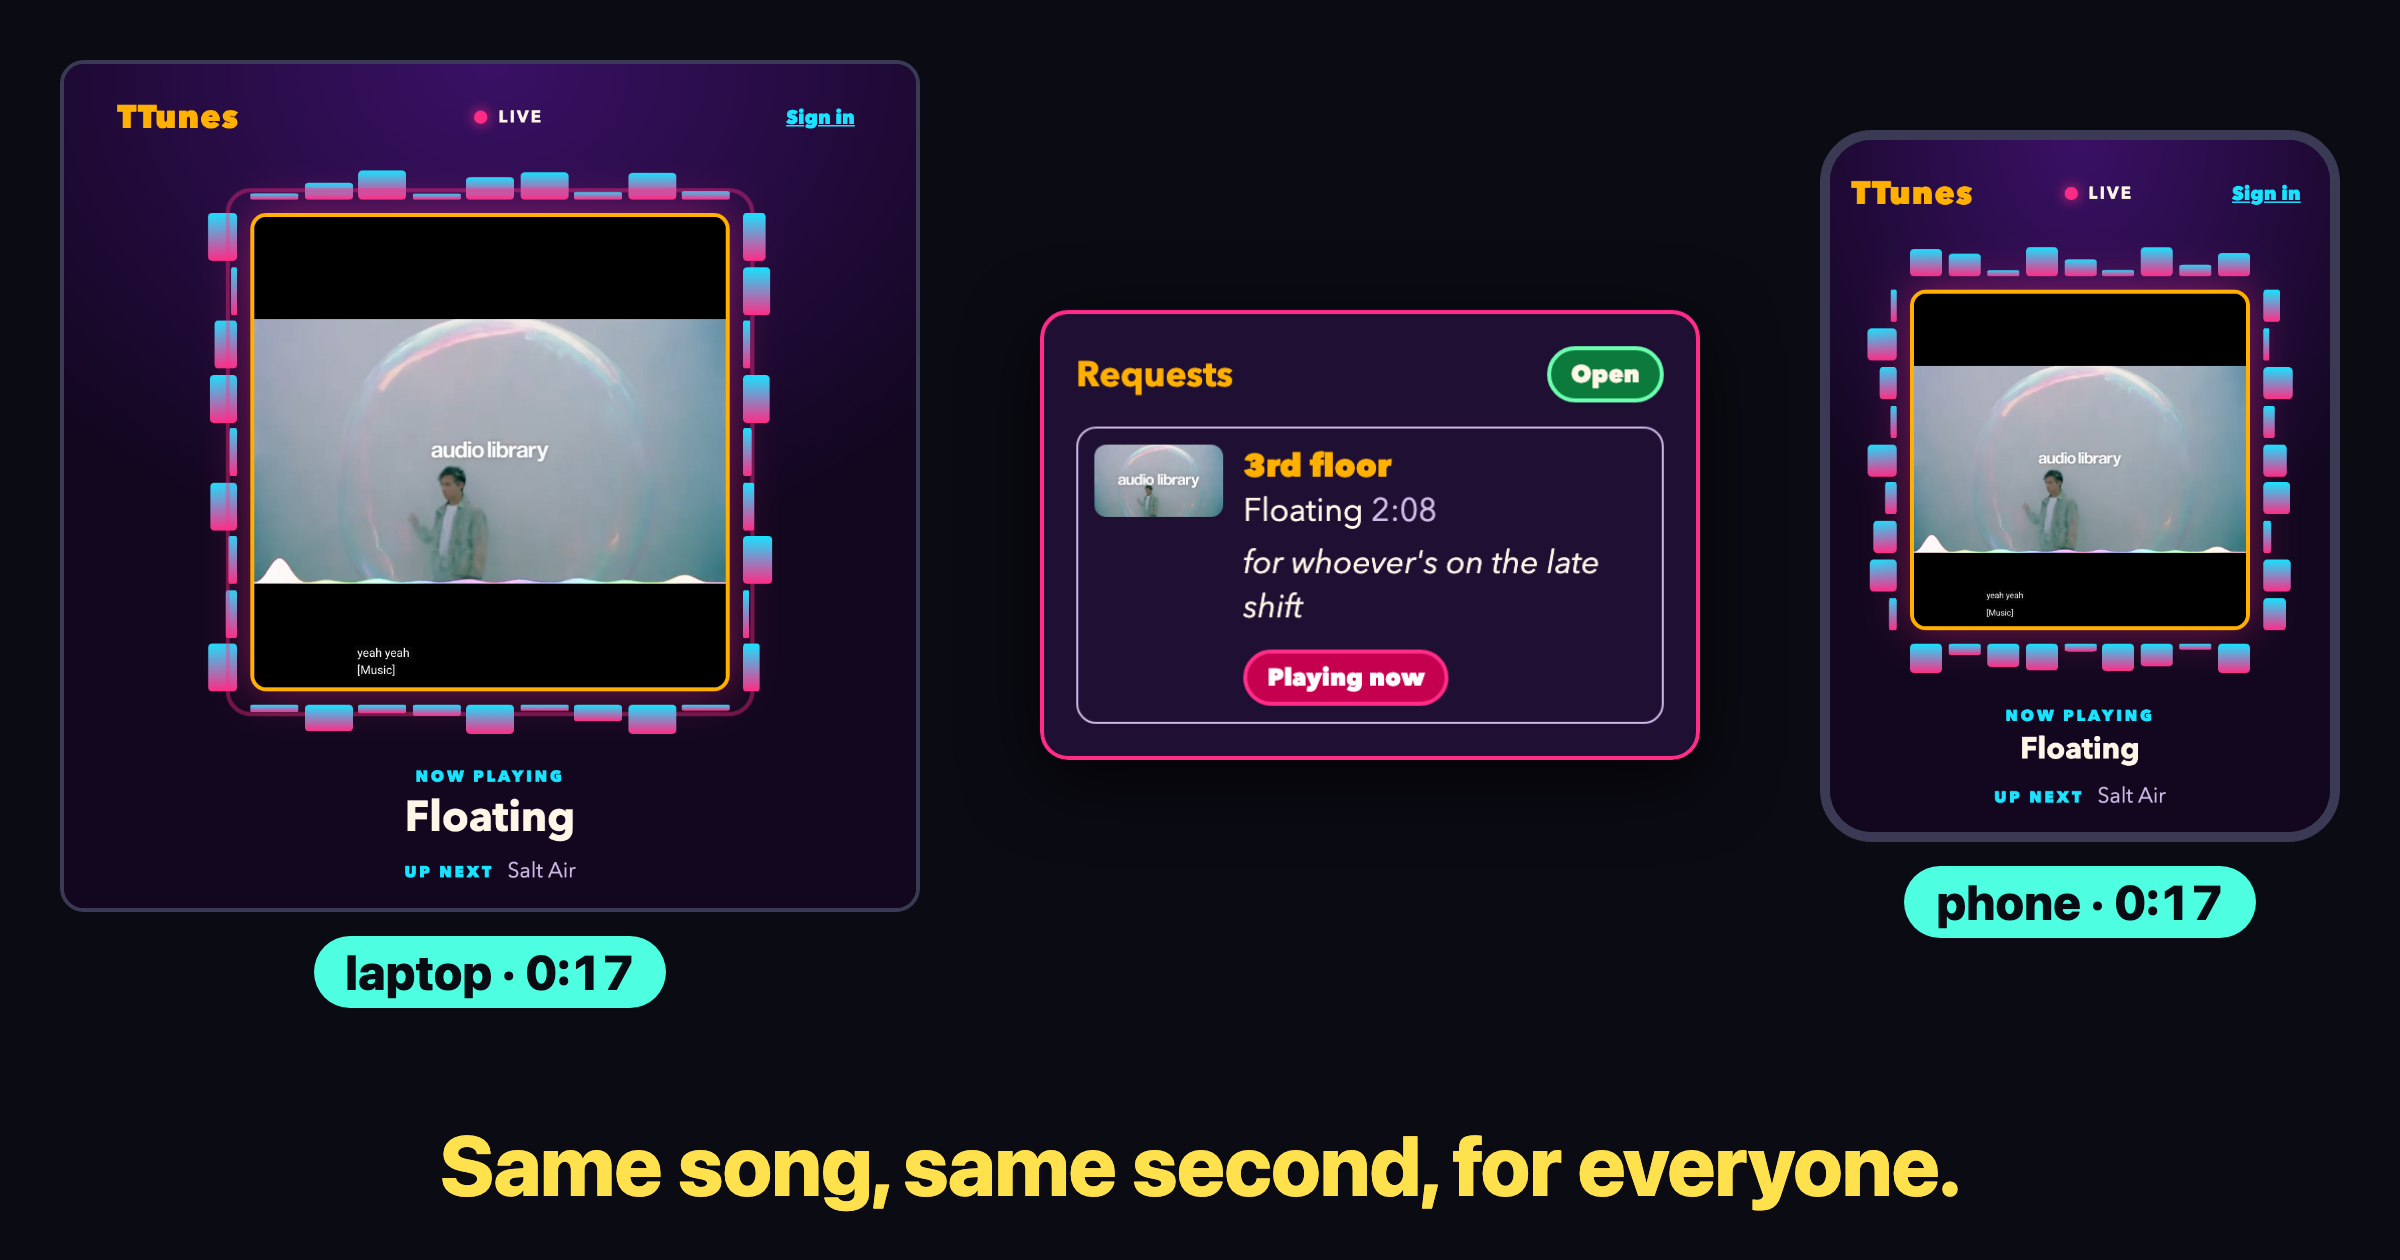
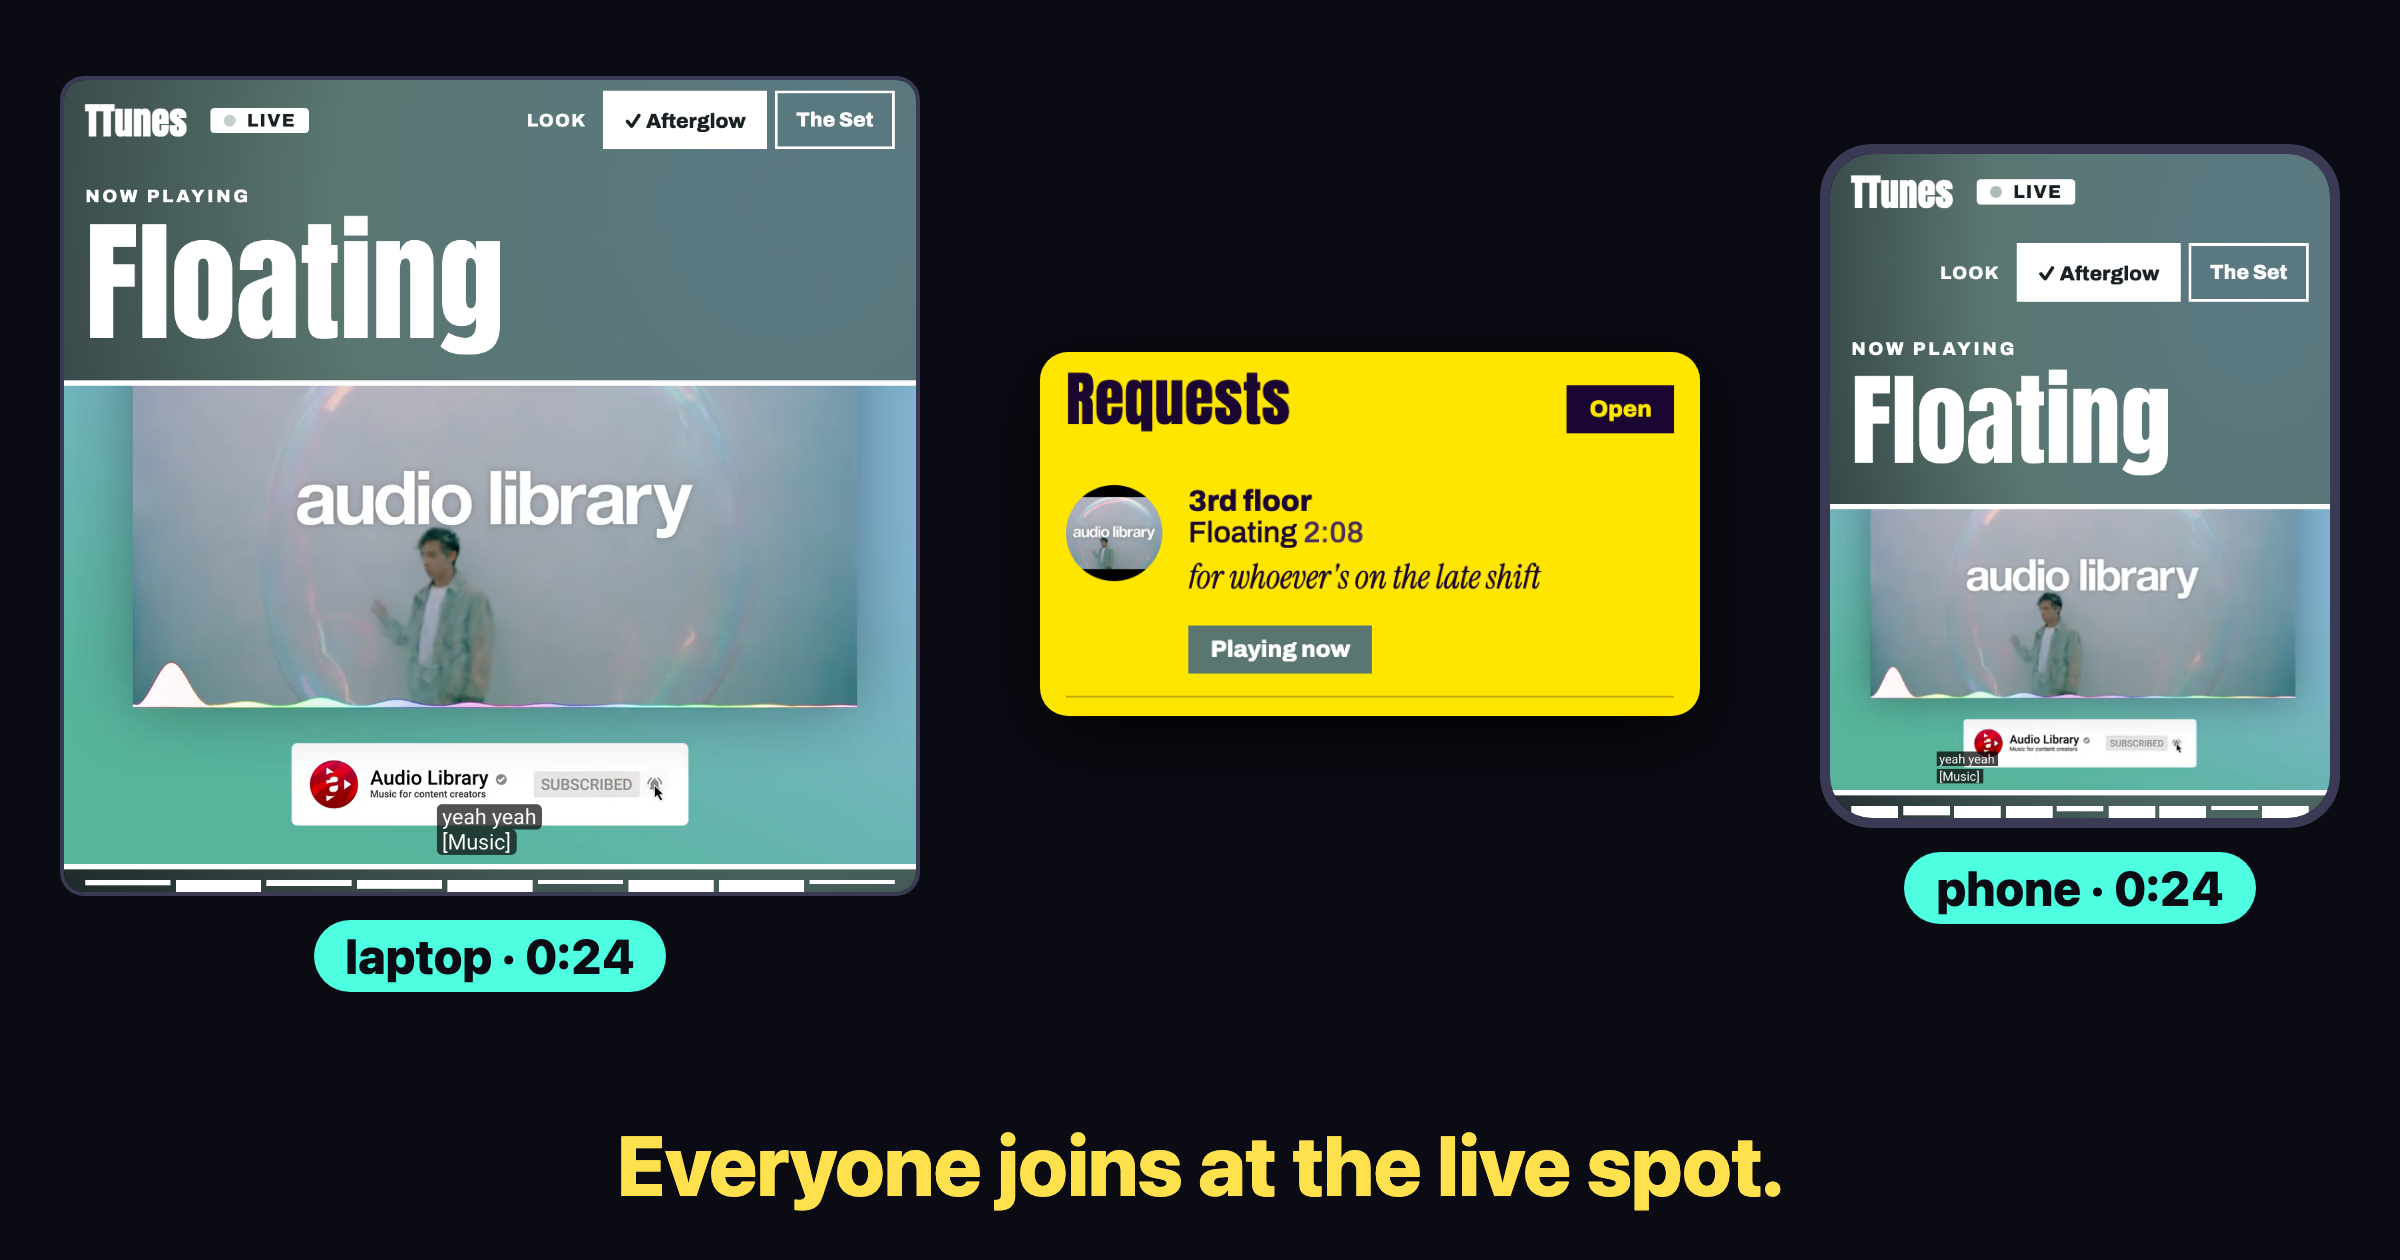
M4: new preview image (Afterglow, 16:9 player) and README for loose playback, two looks, tap-to-expand requests (#43)

diff --git a/README.md b/README.md
@@ -1,8 +1,8 @@
 # TTunes
 
-A personal radio station for one person's music library, on a public URL. It plays by itself, everyone who tunes in hears the same song at the same moment, and listeners can request songs with a short dedication. There is also a Mac app that runs the same idea locally, with uploads.
+A personal radio station for one person's music library, on a public URL. It plays by itself, everyone who tunes in joins the same song at the same live spot, and listeners can request songs with a short dedication. There is also a Mac app that runs the same idea locally, with uploads.
 
-![Two listener screens on the same song at the same second, with the request feed showing a dedication](docs/preview/ttunes-preview.png)
+![Two listener screens (laptop and phone) on the same song in the Afterglow look, with the request feed showing a dedication](docs/preview/ttunes-preview.png)
 
 **Live station:** _not deployed yet — URL goes here once it is live._
 
@@ -15,11 +15,12 @@ A personal radio station for one person's music library, on a public URL. It pla
 | Needs | Vercel + Neon Postgres | Node, yt-dlp, ffmpeg |
 
 ### Hosted station features
-- One shared schedule: every listener hears the same song at the same second, from any browser.
-- Visible YouTube player with a visualizer around it; "Now playing" and "Up next".
+- One shared schedule: press Play and you join the current song at the live spot, from any browser. After that, pause and seek are yours; the player rejoins live only when the next song starts (or after a reload and Play).
+- Two looks, switched in the header and remembered per browser: **Afterglow** (default; colours washed from the song's thumbnail) and **The Set**.
+- Visible 16:9 YouTube player with a visualizer around it; "Now playing" and "Up next" ("Anyone can request a song." sits under Up next).
 - Never stops: requests first, then the owner's queue, then a shuffle of the library.
-- Listener requests by link or typed search, with an optional dedication, in a public chat-style feed. With requests set to *open*, music under 10 minutes plays without the owner touching anything; other requests up to 15 minutes wait for approval; longer ones are refused. Each listener has one request lined up at a time and 5 an hour. The owner can switch requests to *approve first* or *off*, and deny or remove any one.
-- Owner (signed in with GitHub, one account only): add by link or search, skip, reorder, delete with undo, trash, activity log, library export, request mode open / approve first / off.
+- Listener requests (the yellow "Request a song" tab opens the drawer): paste a link and look it up, or search by name; tap a result and it expands in place with a preview and a Send request button. Optional dedication; requests show in a public chat-style feed. A one-time hint points first-time visitors to the tab. With requests set to *open*, music under 10 minutes plays without the owner touching anything; other requests up to 15 minutes wait for approval; longer ones are refused. Each listener has one request lined up at a time and 5 an hour. The owner can switch requests to *approve first* or *off*, and deny or remove any one.
+- Owner (signed in with GitHub, one account only, via "Owner sign-in (station owner only)" in the footer): add by link or search, skip, reorder, delete with undo, trash, activity log, library export, request mode open / approve first / off.
 
 ### Mac app features
 - Add by YouTube link, drag-and-drop audio files, or typed song name (pick the match).
@@ -28,7 +29,7 @@ A personal radio station for one person's music library, on a public URL. It pla
 
 ## How the station works
 - There is one shared schedule in Postgres: which song started at what time.
-- Nothing is streamed from the server. Each browser fetches the schedule and seeks its own YouTube player to the right offset.
+- Nothing is streamed from the server. Each browser fetches the schedule and starts its own YouTube player at the live offset when you press Play or the song changes. It does not keep correcting afterwards, so a listener's pause and seek stay put.
 - Songs advance lazily when someone asks, so there is no always-on server (Vercel functions + Neon, free tiers).
 - The YouTube player stays visible and unmodified, as YouTube's terms require; there is no audio-only mode on the hosted station.
 - Requests are limited by a signed cookie plus an IP backstop. Owner sign-in is GitHub OAuth with a signed session cookie.
@@ -51,7 +52,7 @@ Open the address Vite prints. Environment variables (values never go in the repo
 
 The owner is one GitHub account, set by `OWNER_GITHUB_ID` in `station/lib/auth.ts`; change it to your own GitHub user id to sign in. More in [station/README.md](station/README.md).
 
-Tests: `npm test` and `npm run typecheck` (in `station/`). Regenerate the preview image: `npm run preview` (needs Docker running via `npm run db:up`, Playwright's Chromium via `npx playwright install chromium`, and internet for the YouTube embed).
+Tests: `npm test` and `npm run typecheck` (in `station/`). Browser end-to-end checks, each on its own fresh database: sync, addlink, controls, moderation, request, afterglow, theset, playback, pausedowner, unplayable, slowstart (commands in [station/README.md](station/README.md)). Regenerate the preview image: `npm run preview` (needs Docker running via `npm run db:up`, Playwright's Chromium via `npx playwright install chromium`, and internet for the YouTube embed).
 
 ## Run the Mac app
 Install steps for a new Mac are in [docs/INSTALL.md](docs/INSTALL.md): `brew install node yt-dlp ffmpeg`, clone, double-click `Start TTunes.command`. For development:
@@ -67,5 +68,6 @@ npm run dev
 - Videos that block embedding are refused when added.
 - YouTube may play ads; that is out of our control.
 - A listener sees the owner's skip up to about 30 seconds late (kept to stay within free tiers).
+- A listener who paused or sought away stays there; the player rejoins live only when the next song starts (or after a reload and Play).
 
 Plans and decisions: [docs/chief/vision.md](docs/chief/vision.md).

diff --git a/station/README.md b/station/README.md
@@ -1,4 +1,4 @@
-# TTunes station (M2)
+# TTunes station
 
 The hosted station: one shared schedule everyone listens to in sync. Vite + React front end, Vercel Functions in `api/`, Postgres via `pg` (Neon in production). The owner signs in with GitHub to add songs, skip, reorder and trash.
 
@@ -52,7 +52,7 @@ DATABASE_URL=postgres://ttunes:ttunes@localhost:55432/e2e_x node test/e2e/addlin
 docker exec $(docker ps -qf publish=55432) psql -U ttunes -d postgres -qc "drop database e2e_x with (force)"
 ```
 
-Same for `test/e2e/controls.e2e.mjs`, `test/e2e/moderation.e2e.mjs`, `test/e2e/request.e2e.mjs`, `npm run e2e` (sync), `npm run e2e:theset`, `npm run e2e:slowstart` (video bytes held after Play), `npm run e2e:unplayable` (embed error right after a song change), `npm run e2e:paused` (owner tab, paused listener) and `npm run e2e:playback` (pause, seek and next song; about 3 minutes, real YouTube).
+Same for `test/e2e/controls.e2e.mjs`, `test/e2e/moderation.e2e.mjs`, `test/e2e/request.e2e.mjs`, `test/e2e/afterglow.e2e.mjs`, `npm run e2e` (sync), `npm run e2e:theset`, `npm run e2e:slowstart` (video bytes held after Play), `npm run e2e:unplayable` (embed error right after a song change), `npm run e2e:paused` (owner tab, paused listener) and `npm run e2e:playback` (pause, seek and next song; about 3 minutes, real YouTube).
 
 ## Deploy (Vercel + Neon)
 
